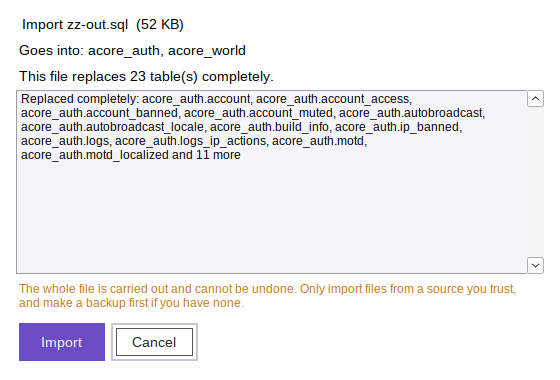
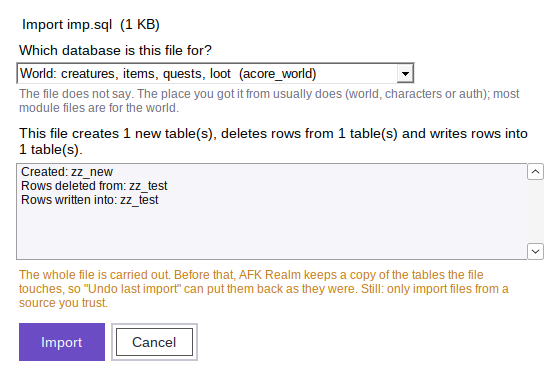
Imports can be undone; Restart server button
Before an import the tables the file touches are copied to
Backups\import-undo; "Undo last import" puts them back and removes
tables the import created. Server management: "Restart server".

diff --git a/src/DatabaseDialog.cs b/src/DatabaseDialog.cs
@@ -39,7 +39,7 @@ namespace CoAInstaller
         readonly Button save = Ui.Primary("Save changes"), discard = Ui.Secondary("Discard"), addRow = Ui.Secondary("Add row"), delRow = Ui.Secondary("Delete row"),
             prev = Ui.Secondary("< Previous"), next = Ui.Secondary("Next >"), apply = Ui.Secondary("Filter"), run = Ui.Primary("Run (F5)");
 
-        readonly Button export = Ui.Secondary("Export …"), import = Ui.Secondary("Import SQL file …");
+        readonly Button export = Ui.Secondary("Export …"), import = Ui.Secondary("Import SQL file …"), undo = Ui.Secondary("Undo last import …");
         string db, table;                               // the table shown in the grid
         List<ColumnInfo> columns = new List<ColumnInfo>();
         int page; bool more, loading, busy;
@@ -86,7 +86,8 @@ namespace CoAInstaller
             // ---- left: databases and their tables
             var left = new Panel { Dock = DockStyle.Left, Width = 270, Padding = new Padding(16, 0, 8, 12) };
             var transfer = new FlowLayoutPanel { Dock = DockStyle.Bottom, AutoSize = true, WrapContents = false, Padding = new Padding(0, 6, 0, 0) };
-            foreach (var x in new[] { export, import }) { x.Font = Ui.Small; x.Padding = new Padding(8, 2, 8, 2); x.Margin = new Padding(0, 0, 6, 0); transfer.Controls.Add(x); }
+            transfer.WrapContents = true;
+            foreach (var x in new[] { export, import, undo }) { x.Font = Ui.Small; x.Padding = new Padding(8, 2, 8, 2); x.Margin = new Padding(0, 0, 6, 6); transfer.Controls.Add(x); }
             left.Controls.Add(tree); left.Controls.Add(tableFilter); left.Controls.Add(transfer);
             left.Controls.Add(new Label { Text = "Find a table", Dock = DockStyle.Top, Height = 22, Font = Ui.Small, ForeColor = Ui.Muted });
 
@@ -140,6 +141,7 @@ namespace CoAInstaller
             run.Click += (s, e) => RunSql();
             export.Click += (s, e) => Export();
             import.Click += (s, e) => Import();
+            undo.Click += (s, e) => UndoImport();
             resultPick.SelectedIndexChanged += (s, e) => ShowResult(resultPick.SelectedIndex);
             allow.CheckedChanged += (s, e) => Allow();
             backup.Click += (s, e) => { if (Leave("Back up the server now? This window closes; the backup shows its progress and can be restored under \"Backups …\".")) { BackUpNow = true; Close(); } };
@@ -187,6 +189,7 @@ namespace CoAInstaller
             apply.Enabled = !busy && table != null;
             run.Enabled = !busy;
             export.Enabled = import.Enabled = !busy && tablesOf.Count > 0;
+            undo.Enabled = !busy && tablesOf.Count > 0 && UndoFiles().Count > 0;
         }
 
         /// <summary>Asks before unsaved changes are thrown away.</summary>
@@ -628,7 +631,7 @@ namespace CoAInstaller
         {
             const long limit = 96L * 1024 * 1024;
             var plan = new FilePlan();
-            var verb = new Regex(@"^\s*(DROP\s+TABLE(?:\s+IF\s+EXISTS)?|CREATE\s+TABLE(?:\s+IF\s+NOT\s+EXISTS)?|INSERT(?:\s+IGNORE)?\s+INTO|REPLACE\s+INTO|DELETE\s+FROM|TRUNCATE(?:\s+TABLE)?|ALTER\s+TABLE|UPDATE|USE|DROP\s+DATABASE|CREATE\s+DATABASE(?:\s+IF\s+NOT\s+EXISTS)?)\s+((?:`[^`]+`|[A-Za-z0-9_$]+)(?:\.(?:`[^`]+`|[A-Za-z0-9_$]+))?)", RegexOptions.IgnoreCase);
+            var verb = new Regex(@"(?:^|;)\s*(DROP\s+TABLE(?:\s+IF\s+EXISTS)?|CREATE\s+TABLE(?:\s+IF\s+NOT\s+EXISTS)?|INSERT(?:\s+IGNORE)?\s+INTO|REPLACE\s+INTO|DELETE\s+FROM|TRUNCATE(?:\s+TABLE)?|ALTER\s+TABLE|UPDATE|USE|DROP\s+DATABASE|CREATE\s+DATABASE(?:\s+IF\s+NOT\s+EXISTS)?)\s+((?:`[^`]+`|[A-Za-z0-9_$]+)(?:\.(?:`[^`]+`|[A-Za-z0-9_$]+))?)", RegexOptions.IgnoreCase);
             using (var r = new StreamReader(file, new UTF8Encoding(false)))
             {
                 long read = 0; string line, use = null;
@@ -638,19 +641,20 @@ namespace CoAInstaller
                     if (read > limit) { plan.Partial = true; break; }
                     var named = Regex.Match(line.Length > 200 ? line.Substring(0, 200) : line, @"^--\s*(?:Host:.*)?Database:\s*`?([A-Za-z0-9_$]+)");
                     if (named.Success && plan.Named == null) plan.Named = named.Groups[1].Value;
-                    var m = verb.Match(line.Length > 400 ? line.Substring(0, 400) : line);
-                    if (!m.Success) continue;
-                    string what = Regex.Replace(m.Groups[1].Value.ToUpperInvariant(), @"\s+", " "), target = m.Groups[2].Value.Replace("`", "");
-                    if (what == "USE") { use = target; plan.Databases.Add(target); continue; }
-                    if (what.Contains("DATABASE")) { plan.Databases.Add(target); plan.Other = true; continue; }
-                    if (target.Contains(".")) plan.Databases.Add(target.Substring(0, target.IndexOf('.')));
-                    else if (use != null) target = use + "." + target;
-                    else plan.Loose = true;
-                    if (what.StartsWith("DROP TABLE")) plan.Rebuilt.Add(target);
-                    else if (what.StartsWith("CREATE TABLE")) plan.Created.Add(target);
-                    else if (what.StartsWith("DELETE") || what.StartsWith("TRUNCATE")) plan.Emptied.Add(target);
-                    else if (what.StartsWith("ALTER")) plan.Altered.Add(target);
-                    else plan.Written.Add(target);
+                    foreach (Match m in verb.Matches(line))
+                    {
+                        string what = Regex.Replace(m.Groups[1].Value.ToUpperInvariant(), @"\s+", " "), target = m.Groups[2].Value.Replace("`", "");
+                        if (what == "USE") { use = target; plan.Databases.Add(target); continue; }
+                        if (what.Contains("DATABASE")) { plan.Databases.Add(target); plan.Other = true; continue; }
+                        if (target.Contains(".")) plan.Databases.Add(target.Substring(0, target.IndexOf('.')));
+                        else if (use != null) target = use + "." + target;
+                        else plan.Loose = true;
+                        if (what.StartsWith("DROP TABLE")) plan.Rebuilt.Add(target);
+                        else if (what.StartsWith("CREATE TABLE")) plan.Created.Add(target);
+                        else if (what.StartsWith("DELETE") || what.StartsWith("TRUNCATE")) plan.Emptied.Add(target);
+                        else if (what.StartsWith("ALTER")) plan.Altered.Add(target);
+                        else plan.Written.Add(target);
+                    }
                 }
             }
             plan.Created.ExceptWith(plan.Rebuilt);
@@ -722,7 +726,7 @@ namespace CoAInstaller
                 var box = new TextBox { Multiline = true, ReadOnly = true, ScrollBars = ScrollBars.Vertical, Dock = DockStyle.Fill, Font = Ui.Small, BackColor = Ui.Panel, BorderStyle = BorderStyle.FixedSingle, Text = text.ToString().TrimEnd(), TabStop = false, Visible = text.Length > 0 };
                 var foot = new FlowLayoutPanel { Dock = DockStyle.Bottom, AutoSize = true, FlowDirection = FlowDirection.TopDown, WrapContents = false };
                 foot.Controls.Add(new Label { AutoSize = true, MaximumSize = new Size(520, 0), Font = Ui.Small, ForeColor = Ui.Warn, Margin = new Padding(0, 8, 0, 0),
-                    Text = "The whole file is carried out and cannot be undone. Only import files from a source you trust, and make a backup first if you have none." });
+                    Text = "The whole file is carried out. Before that, AFK Realm keeps a copy of the tables the file touches, so \"Undo last import\" can put them back as they were. Still: only import files from a source you trust." });
                 var ok = Ui.Primary("Import"); var cancel = Ui.Secondary("Cancel"); ok.DialogResult = DialogResult.OK; cancel.DialogResult = DialogResult.Cancel;
                 var row = Ui.Row(); row.Margin = new Padding(0, 10, 0, 0); row.Controls.Add(ok); row.Controls.Add(cancel); foot.Controls.Add(row);
                 f.Controls.Add(box); f.Controls.Add(foot); f.Controls.Add(head); f.CancelButton = cancel;
@@ -732,16 +736,95 @@ namespace CoAInstaller
             }
             string where_ = choose ? target : string.Join(", ", named);
 
-            Label hint = tableTabShown() ? tableHint : sqlHint;
-            hint.Text = "Importing " + Path.GetFileName(file) + " into " + where_ + " …";
-            Background(() => MySql.RunFile(inst, Login, target, file), () =>
+            // What to keep a copy of: the tables the file names, each in its database. When the file could not be
+            // read to the end, or does things beyond tables, whole databases are kept instead.
+            var touched = new Dictionary<string, SortedSet<string>>();
+            foreach (var name in plan.Rebuilt.Concat(plan.Created).Concat(plan.Altered).Concat(plan.Emptied).Concat(plan.Written))
             {
-                MessageBox.Show(this, Path.GetFileName(file) + " was imported into " + where_ + ".\n\nThe worldserver reads most world tables only when it starts: stop and start the server for the change to show in the game.", Product.Name, MessageBoxButtons.OK, MessageBoxIcon.Information);
+                int dot = name.IndexOf('.');
+                string d = dot < 0 ? target : name.Substring(0, dot), t = name.Substring(dot + 1);
+                if (!touched.ContainsKey(d)) touched[d] = new SortedSet<string>();
+                touched[d].Add(t);
+            }
+            bool whole = plan.Partial || plan.Other || touched.Count == 0;
+            if (whole) { touched.Clear(); foreach (var d in named.Concat(choose ? new[] { target } : new string[0]).Distinct()) touched[d] = null; }
+            var known = tablesOf;
+            string undoFile = Path.Combine(UndoFolder, DateTime.Now.ToString("yyyyMMdd-HHmmss", CultureInfo.InvariantCulture) + " " + Path.GetFileNameWithoutExtension(file) + ".sql");
+
+            Label hint = tableTabShown() ? tableHint : sqlHint;
+            hint.Text = "Keeping a copy of what the file touches, then importing " + Path.GetFileName(file) + " …";
+            bool copied = false;
+            Background(() =>
+            {
+                Directory.CreateDirectory(UndoFolder);
+                try
+                {
+                    using (var dst = File.Create(undoFile))
+                    {
+                        var enc = new UTF8Encoding(false);
+                        Action<string> write = line => { var b = enc.GetBytes(line + "\n"); dst.Write(b, 0, b.Length); };
+                        write("-- " + Product.Name + " undo: the tables as they were before importing " + Path.GetFileName(file) + " on " + DateTime.Now.ToString("yyyy-MM-dd HH:mm", CultureInfo.InvariantCulture));
+                        foreach (var d in touched.Keys)
+                        {
+                            if (!known.ContainsKey(d)) continue;                    // a database the file creates itself
+                            if (touched[d] == null) { MySql.DumpTables(inst, Login, d, null, dst); continue; }
+                            var there = touched[d].Where(known[d].Contains).ToList();
+                            write("USE " + Id(d) + ";");
+                            foreach (var t in touched[d].Where(t => !known[d].Contains(t))) write("DROP TABLE IF EXISTS " + Id(t) + ";");      // new with the import: gone with the undo
+                            if (there.Count > 0) MySql.DumpTables(inst, Login, d, there, dst);
+                        }
+                    }
+                }
+                catch (Exception ex) { try { File.Delete(undoFile); } catch { } throw new InvalidOperationException("The copy for \"Undo last import\" could not be made, so nothing was imported.\n\n" + ex.Message); }
+                copied = true;
+                foreach (var old in UndoFiles().Skip(5)) try { File.Delete(old); } catch { }
+                MySql.RunFile(inst, Login, target, file);
+            }, () =>
+            {
+                MessageBox.Show(this, Path.GetFileName(file) + " was imported into " + where_ + ".\n\nThe worldserver reads most world tables only when it starts: restart the server for the change to show in the game.\n\n" +
+                    "If it does not work out, \"Undo last import\" puts everything back as it was.", Product.Name, MessageBoxButtons.OK, MessageBoxIcon.Information);
                 Refill("Imported " + Path.GetFileName(file) + " into " + where_ + ".");
             }, error =>
             {
-                Ui.Error(this, "The import stopped with an error. Statements before it were carried out, so the database may hold only a part of the file:\n\n" + error);
+                if (!copied) { hint.Text = "Nothing was imported."; Ui.Error(this, error); return; }
+                Ui.Error(this, "The import stopped with an error. Statements before it were carried out, so the database may hold only a part of the file. \"Undo last import\" puts everything back as it was.\n\n" + error);
                 Refill("The import stopped with an error.");
+            });
+        }
+
+        string UndoFolder { get { return Path.Combine(inst.Root, "Backups", "import-undo"); } }
+
+        /// <summary>The copies made before imports, newest first.</summary>
+        List<string> UndoFiles()
+        {
+            try { return Directory.Exists(UndoFolder) ? Directory.GetFiles(UndoFolder, "*.sql").OrderByDescending(f => Path.GetFileName(f), StringComparer.Ordinal).ToList() : new List<string>(); }
+            catch { return new List<string>(); }
+        }
+
+        void UndoImport()
+        {
+            if (busy) return;
+            var files = UndoFiles();
+            if (files.Count == 0) return;
+            if (!allow.Checked) { Ui.Error(this, "Undoing an import changes the database. Tick \"Allow changes\" at the top first."); return; }
+            string file = files[0], name = Path.GetFileNameWithoutExtension(file), what = name.Length > 16 ? name.Substring(16) : name; DateTime when;
+            string at = DateTime.TryParseExact(name.Length >= 15 ? name.Substring(0, 15) : "", "yyyyMMdd-HHmmss", CultureInfo.InvariantCulture, DateTimeStyles.None, out when) ? when.ToString("g") : "";
+            if (!Ui.Confirm(this, "Undo the import of " + what + ".sql" + (at.Length > 0 ? " from " + at : "") + "?\n\n" +
+                "The tables it touched are put back exactly as they were before the import. Whatever changed in these tables since then is lost as well" +
+                (ctl.World != null ? "; the server is running, so restart it afterwards" : "") + ".")) return;
+            if (Dirty && !Ui.Confirm(this, "There are changes in the table that were not saved; they are lost. Go on?")) return;
+            Label hint = tableTabShown() ? tableHint : sqlHint;
+            hint.Text = "Putting the tables back …";
+            string any = tablesOf.ContainsKey("acore_world") ? "acore_world" : tablesOf.Keys.First();
+            Background(() => MySql.RunFile(inst, Login, any, file), () =>
+            {
+                try { File.Delete(file); } catch { }
+                MessageBox.Show(this, "The import of " + what + ".sql was undone." + (ctl.World != null ? "\n\nRestart the server for it to show in the game." : ""), Product.Name, MessageBoxButtons.OK, MessageBoxIcon.Information);
+                Refill("The import of " + what + ".sql was undone.");
+            }, error =>
+            {
+                Ui.Error(this, "Putting the tables back stopped with an error. The copy is kept in\n" + file + "\n\n" + error);
+                Refill("Undoing the import stopped with an error.");
             });
         }
 

diff --git a/src/ManagerPage.cs b/src/ManagerPage.cs
@@ -17,6 +17,7 @@ namespace CoAInstaller
         readonly Label mapState = Ui.Hint("");
         readonly Button start = Ui.Primary("Start server");
         readonly Button stop = Ui.Secondary("Stop server");
+        readonly Button restart = Ui.Secondary("Restart server");
         readonly TextBox accName = Ui.Input(200), accPw1 = Ui.Input(200, true), accPw2 = Ui.Input(200, true);
         readonly ComboBox accLevel = new ComboBox { DropDownStyle = ComboBoxStyle.DropDownList, Width = 200, Font = Ui.Base };
         readonly TextBox realm = Ui.Input(200);
@@ -89,15 +90,16 @@ namespace CoAInstaller
             Body.Controls.Add(StatusRow("Database", dbState));
             Body.Controls.Add(StatusRow("Authserver (login)", authState));
             Body.Controls.Add(StatusRow("Worldserver (game world)", worldState));
-            var buttons = Ui.Row(); buttons.Controls.Add(start); buttons.Controls.Add(stop); buttons.Controls.Add(consoles);
+            var buttons = Ui.Row(); buttons.Controls.Add(start); buttons.Controls.Add(stop); buttons.Controls.Add(restart); buttons.Controls.Add(consoles);
             consoles.Padding = new Padding(12, 6, 12, 6); consoles.Margin = new Padding(16, 3, 3, 3);
             consoles.Click += (s, e) => OpenConsoles();
             Body.Controls.Add(buttons);
             Body.Controls.Add(busy);
-            Body.Controls.Add(Ui.Hint("\"Stop server\" saves all characters and shuts down cleanly. The servers run in the background; " +
+            Body.Controls.Add(Ui.Hint("\"Stop server\" saves all characters and shuts down cleanly; \"Restart server\" does that and starts it again, for example after changing settings or the database. The servers run in the background; " +
                 "\"Open server consoles\" shows what they print and takes GM commands."));
             start.Click += (s, e) => StartServer();
             stop.Click += (s, e) => StopServer();
+            restart.Click += (s, e) => RestartServer();
 
             // --- map data
             Body.Controls.Add(Ui.Heading("Map data"));
@@ -313,6 +315,7 @@ namespace CoAInstaller
                         ShowState(dbState, db, true); ShowState(authState, auth, true); ShowState(worldState, world, worldReady);
                         start.Enabled = !(auth && world);
                         stop.Enabled = db || auth || world;
+                        restart.Enabled = auth || world;
                         mapState.ForeColor = maps && dbc ? Ui.Ok : Ui.Warn;
                         mapState.Text = !maps ? "Map data is still missing. The worldserver cannot run without it."
                             : !dbc ? "The CoA DBC tables are missing. Use \"Create map data\" and tick \"Only refresh the CoA DBC tables\"."
@@ -394,6 +397,19 @@ namespace CoAInstaller
             if (!Ui.Confirm(this, "Stop the server now? All players are saved and logged out.")) return;
             Main.RunBusy(busy, st => { ctl.StopAll(st, true); st("Server is stopped."); },
                 err => { if (err != null) { busy.Text = ""; Ui.Error(this, err.Message); } RefreshStatus(); });
+        }
+
+        /// <summary>Stops auth- and worldserver cleanly and starts them again; the database keeps running.</summary>
+        void RestartServer()
+        {
+            if (!Ui.Confirm(this, "Restart the server now? All players are saved and logged out; they can log in again once the world has loaded.")) return;
+            Main.RunBusy(busy, st => { ctl.StopAll(st, false); st("Server is stopped. Starting it again ..."); },
+                err =>
+                {
+                    RefreshStatus();
+                    if (err != null) { busy.Text = ""; Ui.Error(this, err.Message); return; }
+                    StartServer();
+                });
         }
 
         void EnsureDatabase(Action<string> st) { if (ctl.Db == null) ctl.StartDatabase(st); }

diff --git a/README.md b/README.md
@@ -30,12 +30,12 @@ Pre-built repacks go stale quickly. Building from source keeps you on the latest
 - **Always current**: every installation builds the newest CoA core and Playerbots
 - **Clear progress**: every step, download percentages, compiled files and imported world tables, plus an optional live log
 - **Databases ready before the first start**: imports the CoA world package, creates the auth and character databases and applies all SQL updates, and repairs databases whose setup was interrupted
-- **Server management**: start and stop (clean shutdown that saves all characters), live status, both server consoles in one window (output of worldserver and authserver, with a command line for GM commands) instead of separate console windows, and the reason shown right away if a server closes while starting
+- **Server management**: start, stop and restart (clean shutdown that saves all characters), live status, both server consoles in one window (output of worldserver and authserver, with a command line for GM commands) instead of separate console windows, and the reason shown right away if a server closes while starting
 - **Server settings**: a list of popular options (XP, drop and reputation rates, flight paths, cross-faction play, Playerbots count and levels) plus every option of the worldserver and all module configs, searchable, with the description from each template and one-click reset to the default
 - **Accounts**: create accounts with GM levels, list all player accounts (bot accounts are filtered out) with their characters, delete accounts, set new passwords and change access levels
 - **Account transfer**: export an account with all its characters, items, mail and pets to an `.afkaccount` file and import it on another server – ids are renumbered, taken names are renamed at the next login
 - **Game master tools**: a line to the running server (its SOAP service, switched on for this PC only) with a quest helper – see a character's quest log with the progress of every objective, find quests by NPC name, quest title or id, or list the new quests around a character, then give, complete, reward or remove them with one click – plus unstuck, revive, level, rename, gold and mail for a character, announcements, and a console for every other GM command
-- **Database editor**: browse and edit every table of the server and run any SQL without a separate program, import SQL files (it says what a file will do before it runs) and export tables or whole databases by ticking them – read-only until you allow changes, with a clear warning and a one-click backup of the whole server before you touch anything
+- **Database editor**: browse and edit every table of the server and run any SQL without a separate program, import SQL files (it says what a file will do before it runs, and an import can be undone) and export tables or whole databases by ticking them – read-only until you allow changes, with a clear warning and a one-click backup of the whole server before you touch anything
 - **Modules**: modules made for this server at the top ("Modules by AFK Realm", first of them: the bots use the auction house like players), then the AzerothCore module catalog: browse it, tick modules to install them and untick them to remove them. Before installing, each module is checked (database changes, settings, core patches, client files, age) and its README is one click away. The server is backed up and rebuilt; if a module does not compile, it is taken out again and the server stays as it was. The database changes of every module installed this way are recorded, so removing it undoes them
 - **Bot reset**: one click deletes all random bots with their characters, guilds and arena teams (your own characters are kept); new bots are created at the next start
 - **Map data**: extracts maps, vmaps, mmaps and the CoA client DBC tables from your game client with one click

diff --git a/docs/MANUAL.md b/docs/MANUAL.md
@@ -67,6 +67,7 @@ The top of the **Server management** shows the three parts of the server:
 
 - **Start server** starts all three in the right order. The worldserver needs a few minutes to load; you can keep using AFK Realm meanwhile. When it says *The server is running. You can log in now.*, it is ready.
 - **Stop server** saves all characters and shuts everything down cleanly. Always stop the server this way.
+- **Restart server** does both in one go: it saves all characters, shuts the auth- and worldserver down cleanly and starts them again. Use it after changing settings or the database, which the worldserver only reads when it starts.
 
 The servers run in the background without windows of their own. **Open server consoles …** shows both in one window:
 
@@ -240,9 +241,11 @@ Type any SQL and press **Run (F5)** (or Ctrl+Enter). Several statements are sepa
 
 ![Import](screenshots/24-database-import.png)
 
-Choose the file. AFK Realm reads it first and tells you in one sentence what it does, with the tables by name below. A file exported with AFK Realm knows which database it belongs to; for any other file you choose the database (the place you got the file from usually says: world, characters or auth – most module files are for the world). Then press **Import**. If the import stops with an error, the statements before the error were already carried out.
+Choose the file. AFK Realm reads it first and tells you in one sentence what it does, with the tables by name below. A file exported with AFK Realm knows which database it belongs to; for any other file you choose the database (the place you got the file from usually says: world, characters or auth – most module files are for the world). Then press **Import**.
 
-Only import files from a source you trust: an SQL file can change or delete anything. Files imported this way are not recorded like the database changes of modules installed through *Manage modules*, so removing a module later does not take them back – a backup from before does.
+**Undo last import …** Before an import runs, AFK Realm keeps a copy of exactly the tables the file touches (in `Backups\import-undo`; the newest five are kept). If the import turns out wrong – the server does not start, a quest is broken – press **Undo last import …**: those tables are put back as they were before the import, and tables the import created are removed. Pressing it again undoes the import before that one. Whatever else changed in these tables since the import is lost with it, so undo soon rather than days later. If an import stops with an error, the statements before the error were already carried out; the undo takes those back too.
+
+Still, only import files from a source you trust: an SQL file can change or delete anything. Files imported this way are not recorded like the database changes of modules installed through *Manage modules*, so removing a module later does not take them back – a backup from before does.
 
 **Export …** writes whole tables to one SQL file – to keep a copy of a table before you change it, to hand your version of a table to someone else, or to carry data to another server.
 

diff --git a/RELEASE_NOTES.md b/RELEASE_NOTES.md
@@ -6,6 +6,8 @@ Build, run and tweak your own Conquest of Azeroth server (AzerothCore fork with 
 
 - **Database editor** (*Server management → Database editor*): look into every table of the server, change values and run any SQL right in AFK Realm, without HeidiSQL or another program. Find a table by typing a part of its name, narrow the rows with a condition, edit cells, add and delete rows; nothing is written until you press *Save changes*. The SQL tab runs whatever you type and shows the results.
 - **Import and export.** *Import SQL file …* runs an SQL file, for example one a module wants imported by hand: choose the file, read in one sentence what it will do, press *Import*. *Export …* writes the tables or whole databases you tick to one file, which can be imported again here or on another server.
+- **Imports can be undone.** Before a file is imported, AFK Realm keeps a copy of exactly the tables it touches. If the import turns out wrong, *Undo last import …* puts them back as they were.
+- **Restart server**: a new button next to *Start* and *Stop* shuts the server down cleanly and starts it again – handy after changing settings or the database.
 - **Safe until you say otherwise.** The editor only reads until you tick *Allow changes*. Doing so warns you plainly and offers to back up the whole server first; the backup can be restored under *Backups*.
 - **Only for people who know what they are doing.** A wrong change in these tables can break the server. If you do not know what a table is for, leave it alone.
 - Good to know: the worldserver reads most world tables only when it starts. If a change "does nothing", stop and start the server (or use the matching `reload` command), and for items delete the game client's `Cache` folder.

diff --git a/CHANGELOG.md b/CHANGELOG.md
@@ -4,6 +4,8 @@
 
 - New: database editor (Server management → Database editor): browse the server's databases and tables, filter rows with a WHERE condition, edit cells, add and delete rows (written only on "Save changes", in one transaction), and a SQL tab that runs any statements and shows the results
 - Database editor: "Import SQL file …" runs a file after saying what it does (tables replaced, created, rows deleted or written); the database is only asked for when the file does not name it. "Export …" writes the ticked tables or whole databases (structure and rows) to one SQL file
+- Database editor: before an import the tables the file touches are copied to Backups\\import-undo (newest five kept); "Undo last import …" puts them back and removes tables the import created
+- Server management: new button "Restart server" (clean stop of world- and authserver, then start; the database keeps running)
 - The editor is read-only until "Allow changes" is ticked; that shows a warning and offers to back up the whole server first ("Back up the server first …" does it at any time)
 - Manual: new chapter "Database editor", including when a change shows in the game (restart or reload, client cache, characters that are online)
 
